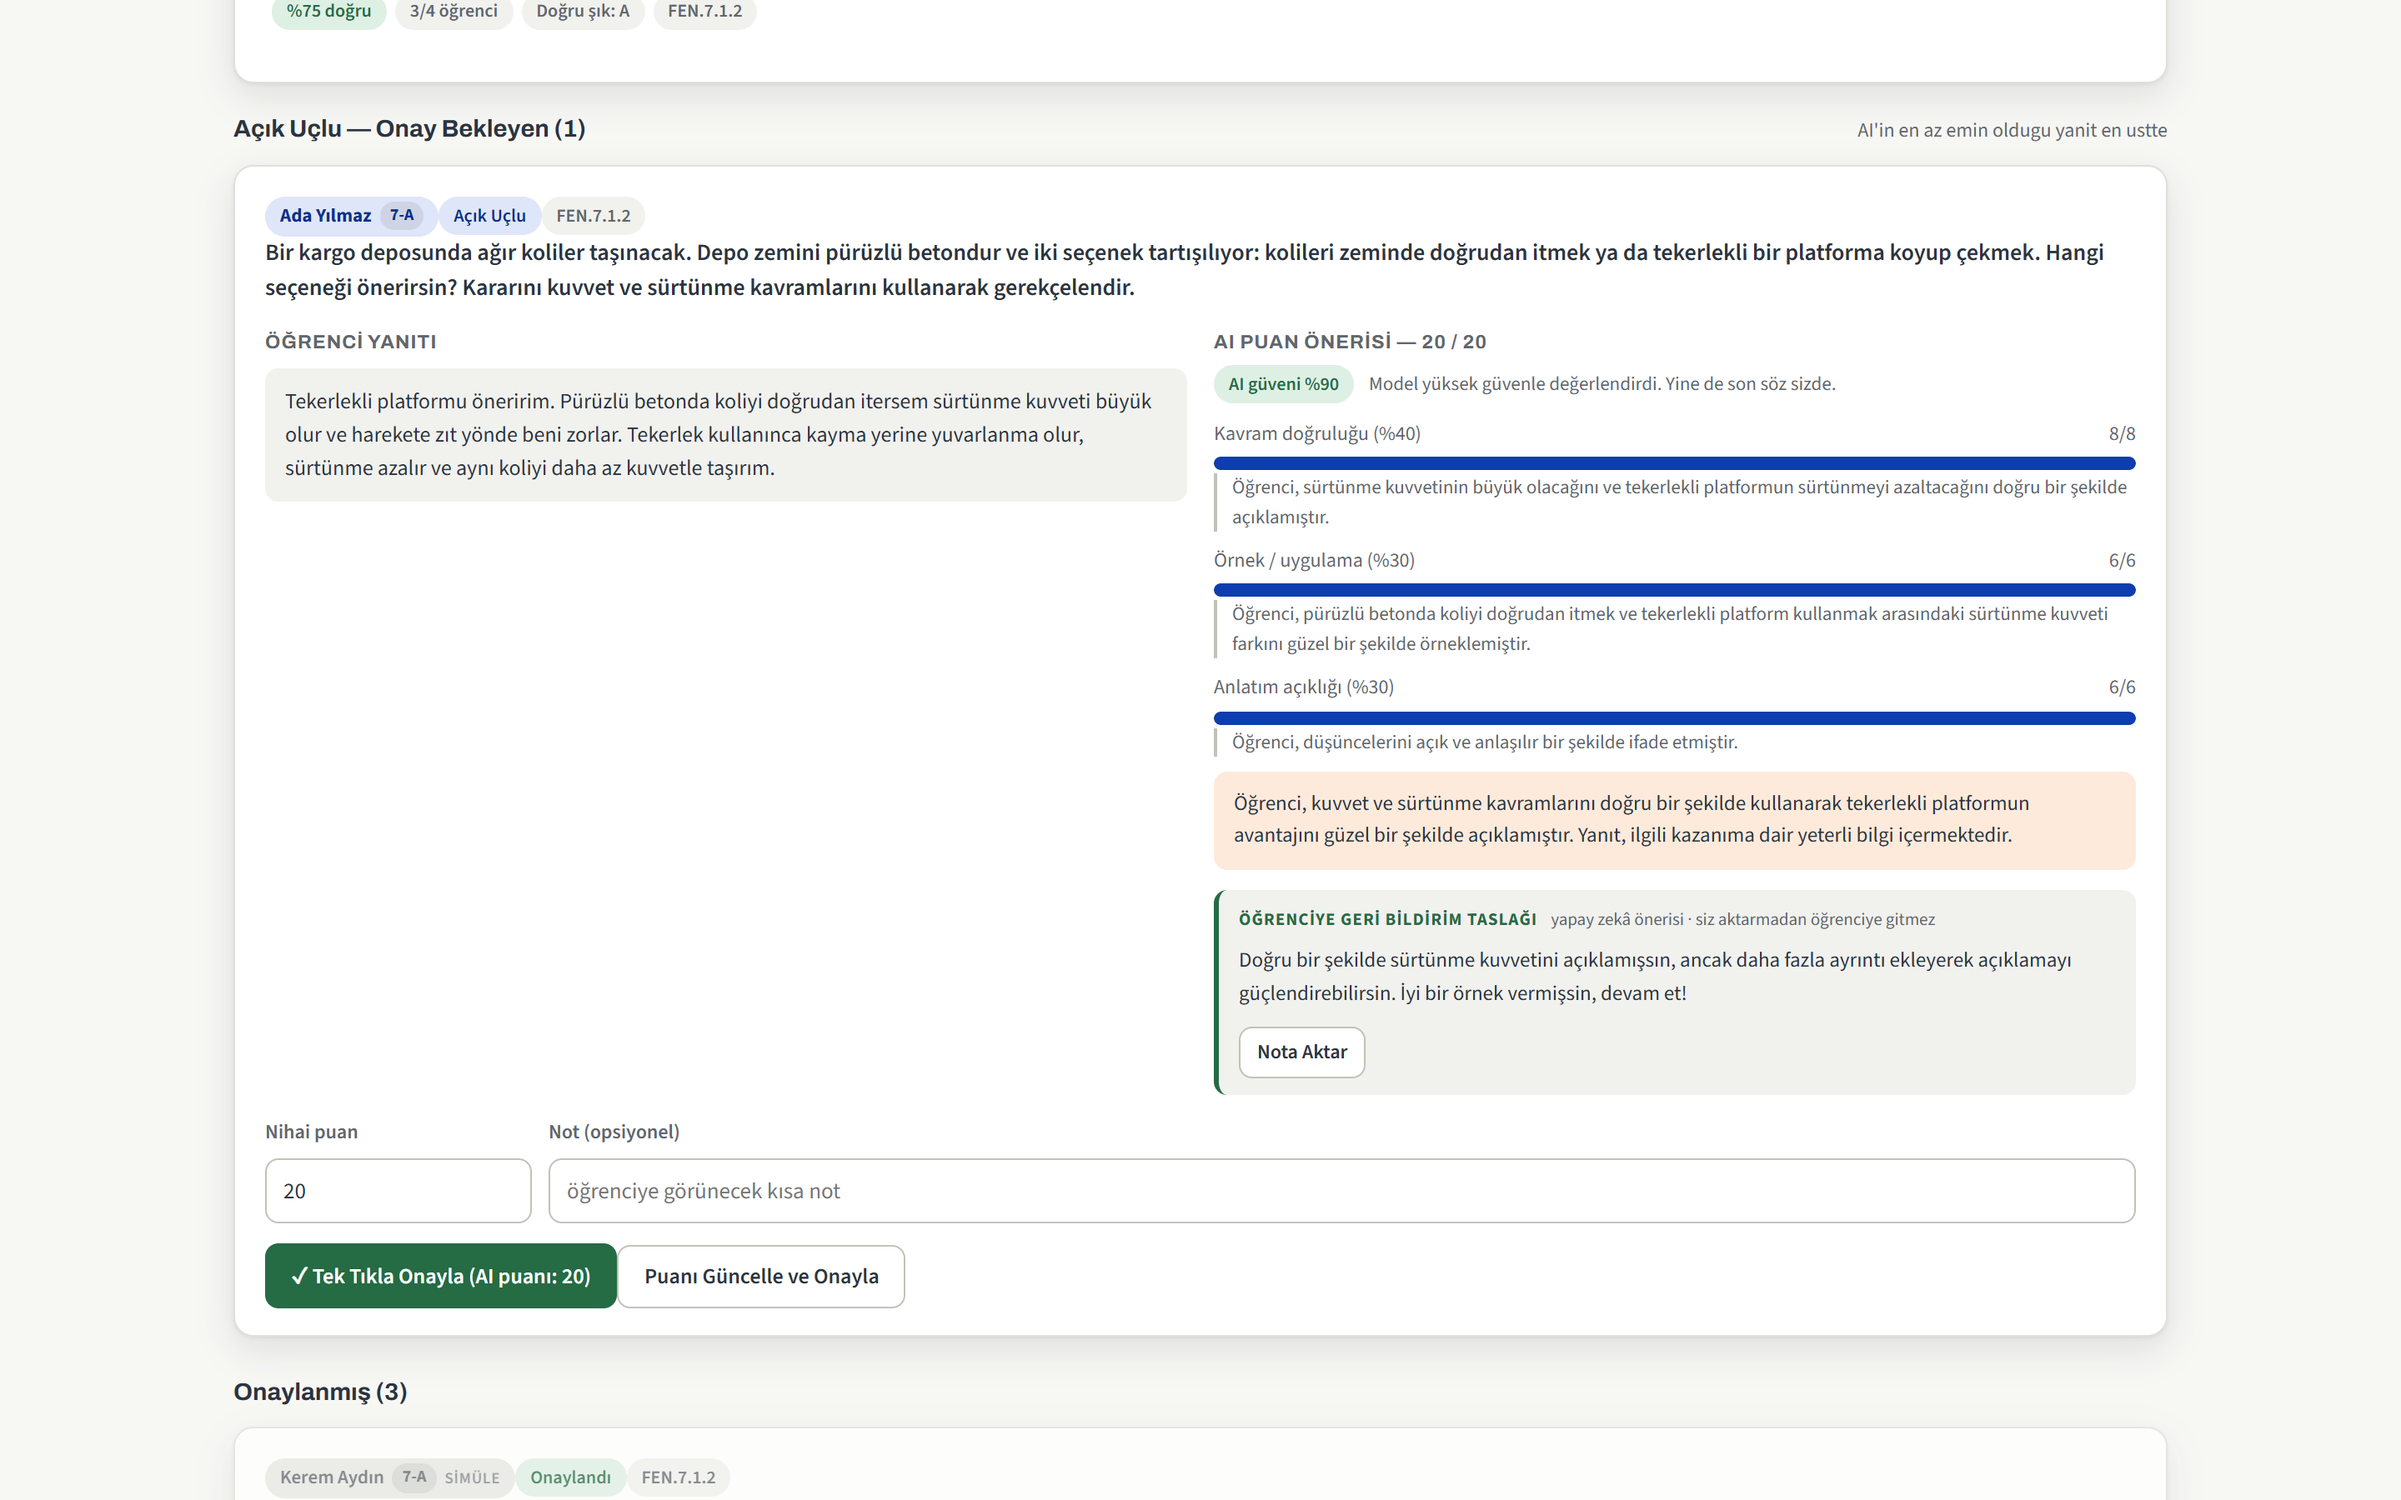
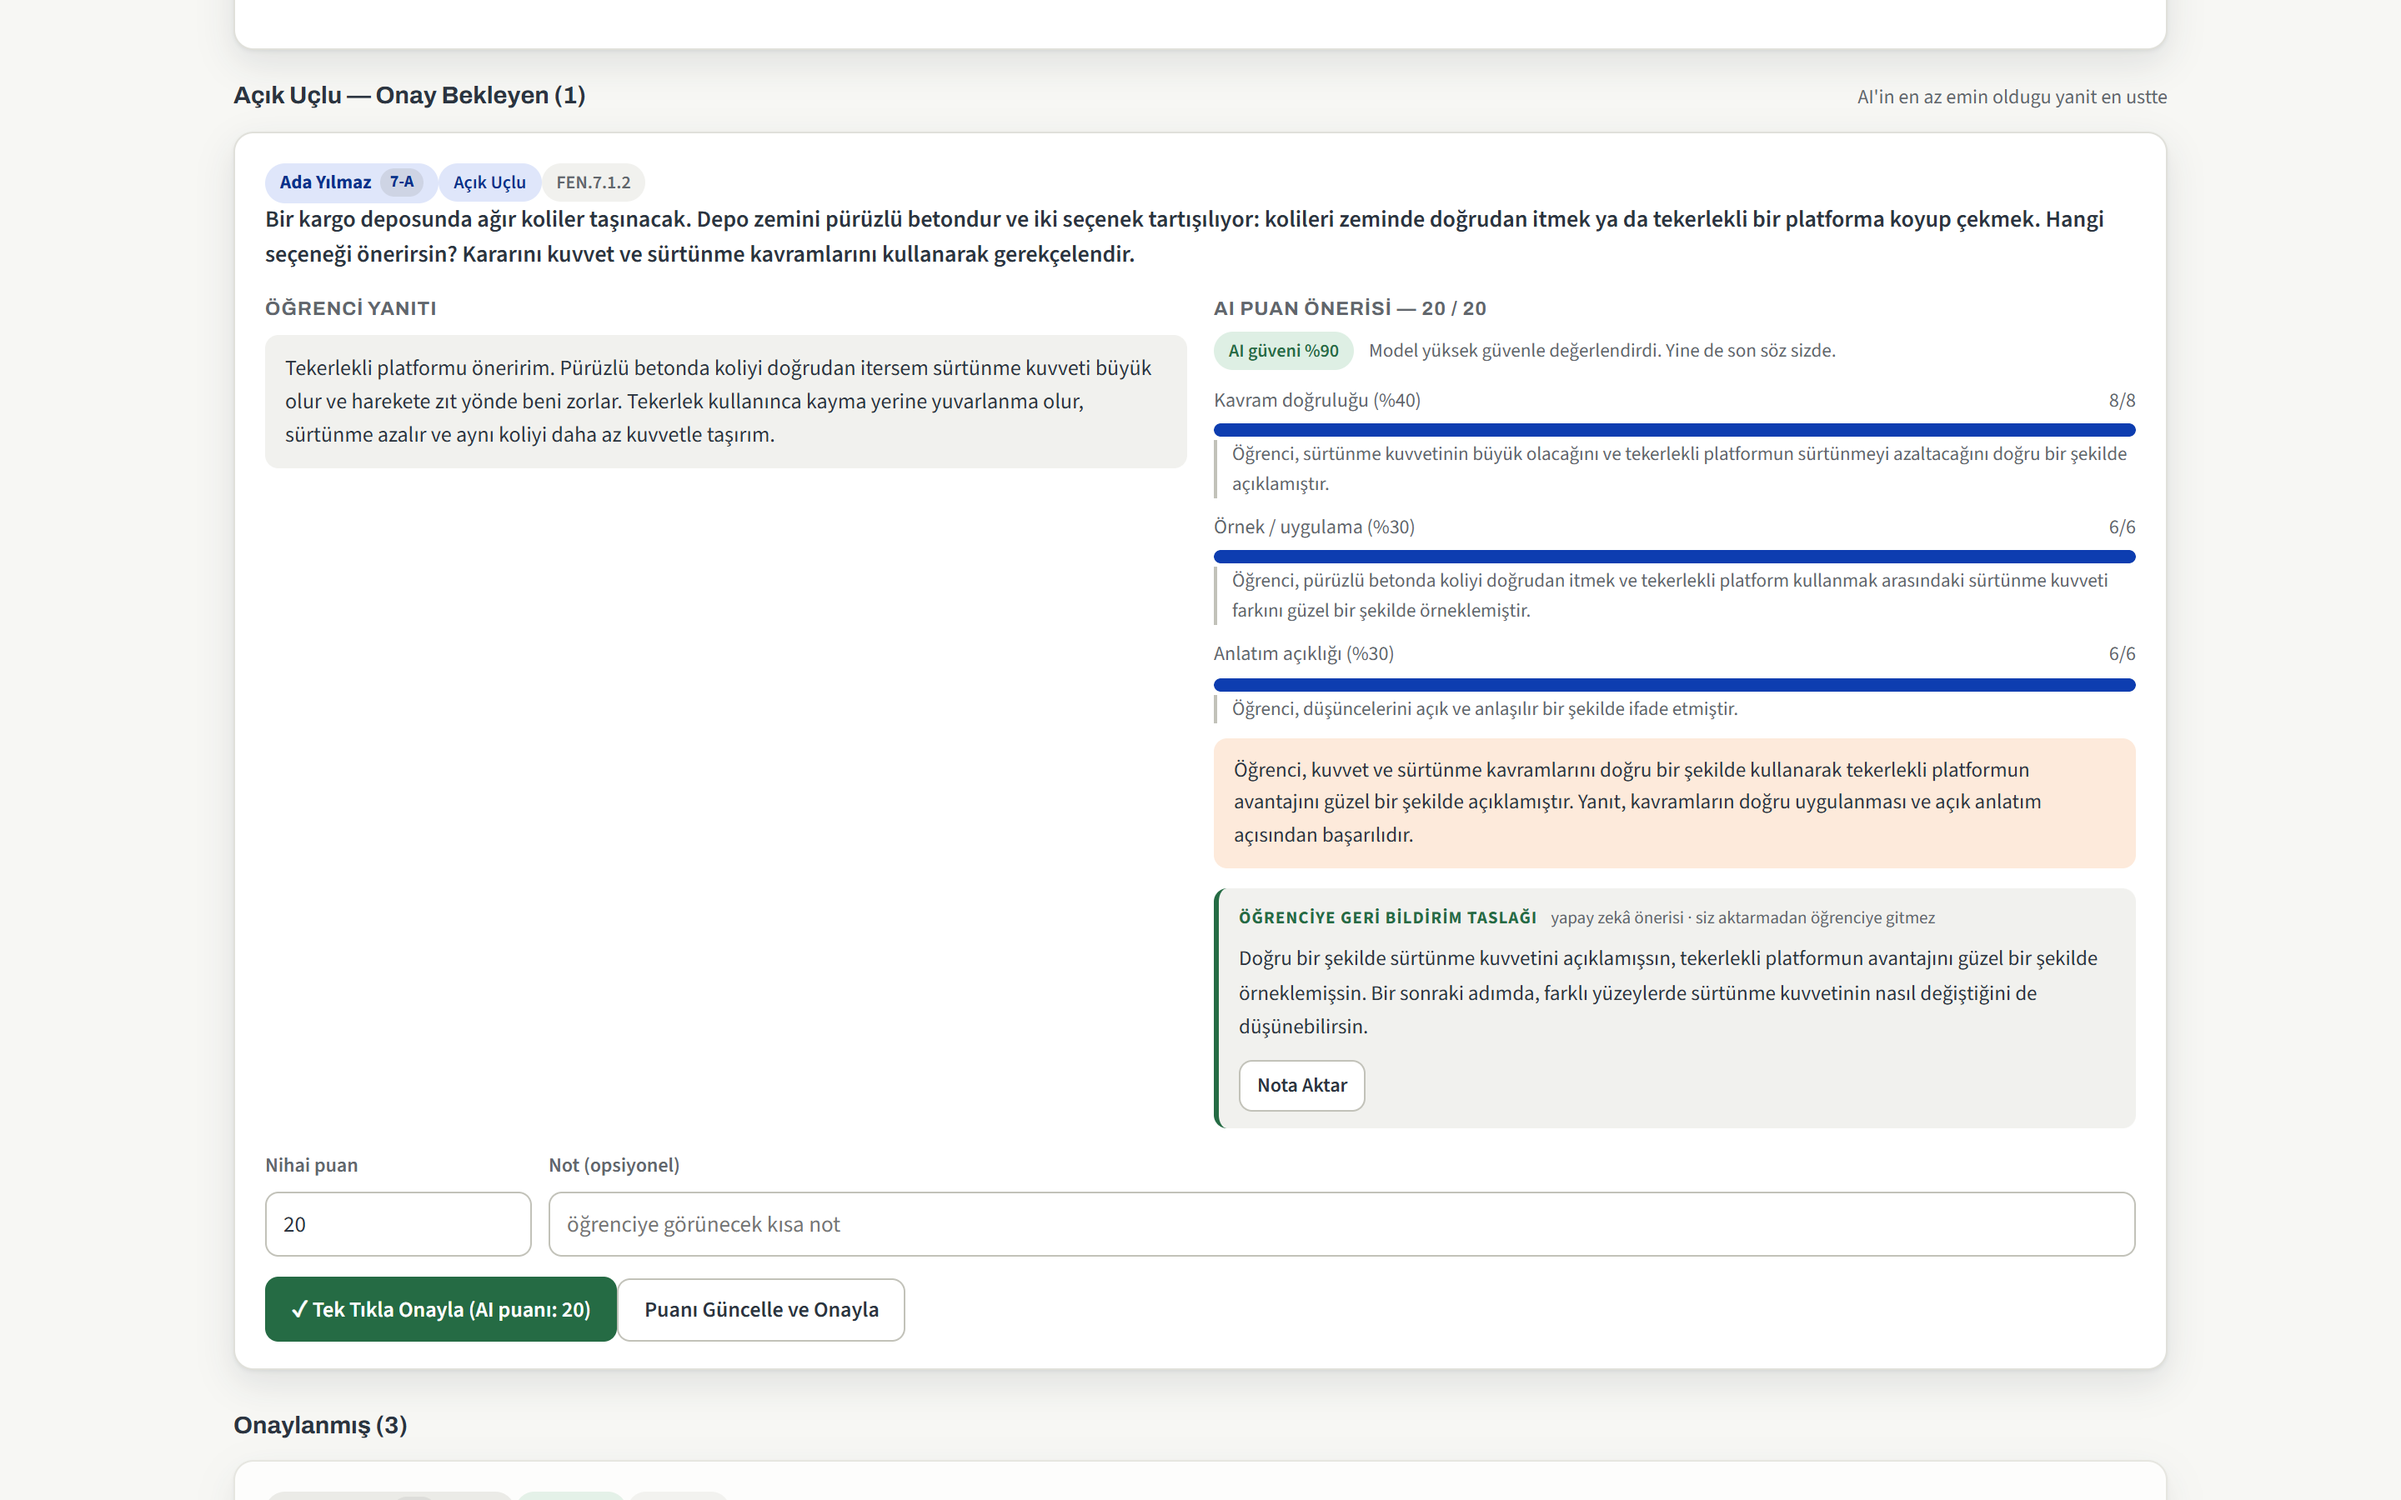
docs: giriş ekranı görüntüsü eklendi + README'deki bozuk tablo düzeltildi (§50h)
Betiğe 0. çekim eklendi: giriş kapısı, kapıdan geçmeden, tam ekran kadrajla.

README'de 'Ekranlar' başlığının altında boş bir tablo kutusu çiziliyordu:
§50g'de eklediğim not, tablo başlığı ile satırlarının arasına girmişti.
Başlık ait olduğu satırın önüne alındı. Kullanıcının GitHub ekran
görüntüsüyle görüldü; metin okuyarak fark edilmiyordu.

Altı görüntü de canlıdan yeniden çekildi, konsol hatası 0.

Changed region(s): [[0.0938, 0.0, 0.9062, 0.56], [0.0938, 0.7467, 0.9062, 1.0], [0.5, 0.5911, 0.875, 0.7467]]

diff --git a/README.md b/README.md
@@ -63,12 +63,18 @@ kusurlar önce ölçülür, sonra kapatılır ve bedeli varsa bedeli de yazılı
 
 ### Ekranlar
 
-| | |
-|---|---|
 > ℹ Ekran görüntüleri `tools/ekran-goruntusu-al.mjs` ile **canlı sistemden**,
 > gerçek model çağrısıyla üretilir — sahne kurgulanmaz. Palet lacivert + turuncu
 > (§50), kazanım panosunda ısı haritası yerine **gruplu sütun grafiği** vardır (§49).
 
+<img src="docs/ekran/00-giris.png" alt="Mihenk giriş ekranı — logo, lacivert ve turuncu palet, tek bir giriş düğmesi" width="100%">
+
+**Giriş ekranı** — jürinin gördüğü ilk ekran. Tek bir düğme var; rol seçimi
+düğmeye basıldıktan sonra gelir. Kimlik doğrulama yoktur, rol bir seçimdir
+(bkz. [§9](#9-bilinen-sınırlamalar-ve-yol-haritası)).
+
+| | |
+|---|---|
 | <img src="docs/ekran/01-icerik-uzmani.png" alt="İçerik Uzmanı paneli — AI'ın ürettiği soru taslakları, her çeldirici için kavram yanılgısı gerekçesi ve onay/red düğmeleri" width="100%"> | <img src="docs/ekran/02-ogretmen-degerlendirme.png" alt="Öğretmen paneli — AI'ın kriter bazında puan önerisi, güven skoru ve öğrenciye geri bildirim taslağı" width="100%"> |
 | **İçerik Uzmanı** — yapay zekâ soru taslağı üretir; her çeldiricinin hangi kavram yanılgısını ölçtüğü yazılıdır. Onaylanmadan havuza girmez. | **Öğretmen** — puan önerisi **kriter bazında** gelir, her kriter için gerekçesiyle. Altta öğrenciye gidecek geri bildirim **taslağı** durur; öğretmen aktarmadan gitmez. |
 | <img src="docs/ekran/03-ogrenci-karne.png" alt="Öğrenci karnesi — büyük nihai puan, her soruda öğrencinin kendi yanıtı ve puanın hangi ölçütten geldiği" width="100%"> | <img src="docs/ekran/04-egitim-yoneticisi.png" alt="Eğitim Yöneticisi paneli — okul geneli tamamlanma, kazanım başarı grafiği ve gerçek/örnek satır ayrımı" width="100%"> |

diff --git a/PROGRESS.md b/PROGRESS.md
@@ -7313,3 +7313,28 @@ Konsol hatası **0** (betiğin kendi ölçümü).
 palet denetimi değildir; `01`'de 87 piksel "turkuaz" kovasına düştü. CSS'te
 turkuaz hex **kalmadığı** ayrıca `grep` ile doğrulandı (§50c), dolayısıyla bu
 sayı sınıflandırıcının gevşekliğidir — üründe turkuaz olduğu anlamına gelmez.
+
+### 50h. GİRİŞ EKRANI GÖRÜNTÜSÜ + README'DE BOZUK TABLO (6 Eylül 2026)
+
+**İstek (kullanıcı):** *"Buradaki ilk baştaki ekranın da ss'ini ekleyelim."*
+
+`tools/ekran-goruntusu-al.mjs`'ye **0. çekim** eklendi: giriş kapısı, kapıdan
+GEÇMEDEN. Sıra önemli — bir alt satırdaki blok kapıyı kapatıyor. Kadraj tam
+ekran bırakıldı: anlatılan şey tek bir bileşen değil, ekranın bütünü (logo,
+palet, dalga, tek düğme); hedef öğe verilseydi kadraj daralır ve alt yazı
+kadrajda olmayan bir şeyi anlatırdı (§45.1). Giriş animasyonu 0,55 sn olduğu
+için 900 ms beklenir.
+
+#### 🟡 README'DE BOZUK MARKDOWN TABLOSU — ekran görüntüsü ortaya çıkardı
+
+Kullanıcının gönderdiği GitHub ekran görüntüsünde "Ekranlar" başlığının altında
+**boş bir tablo kutusu** görüldü. §50g'de eklediğim bilgi notu, tablo başlığı
+(`| | |` + `|---|---|`) ile satırlarının **ARASINA** girmişti: GitHub başlığı
+boş bir tablo olarak çiziyor, satırlar da başlıksız ikinci bir tablo oluyordu.
+Başlık ait olduğu ilk satırın önüne alındı.
+
+**Kendi hatam** ve ancak kullanıcının ekran görüntüsüyle görüldü — depoyu
+yalnızca metin olarak okumak markdown çizim kusurunu göstermiyor.
+
+Altı görüntü de yeniden çekildi (canlı, gerçek model çağrısı), konsol hatası
+**0**. README'ye giriş ekranı, alt yazısıyla eklendi.
